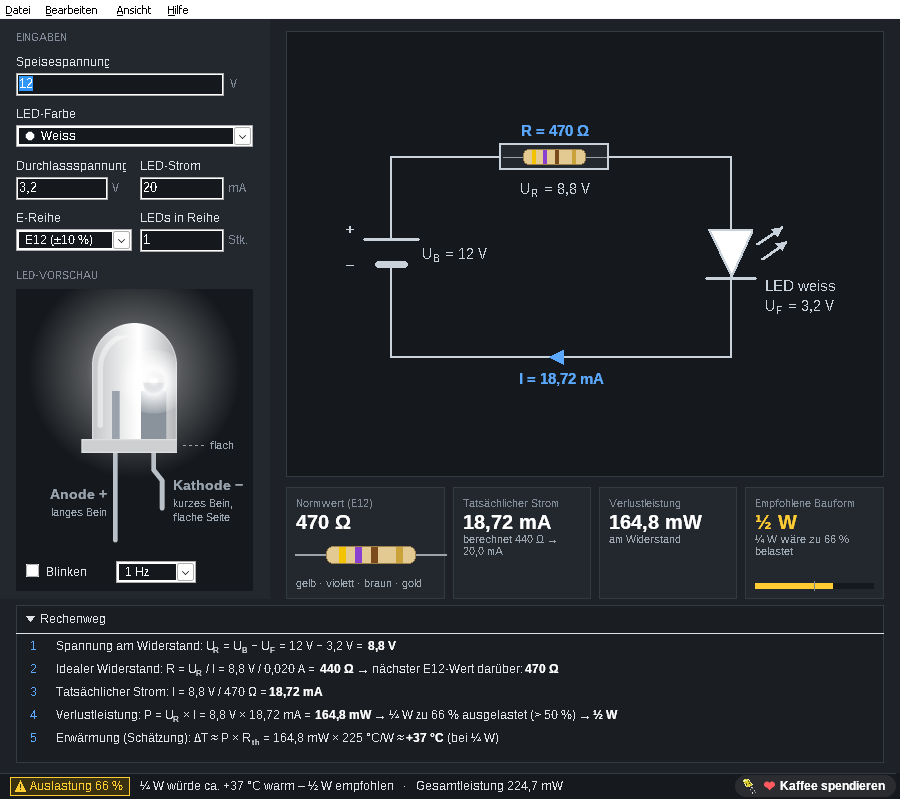
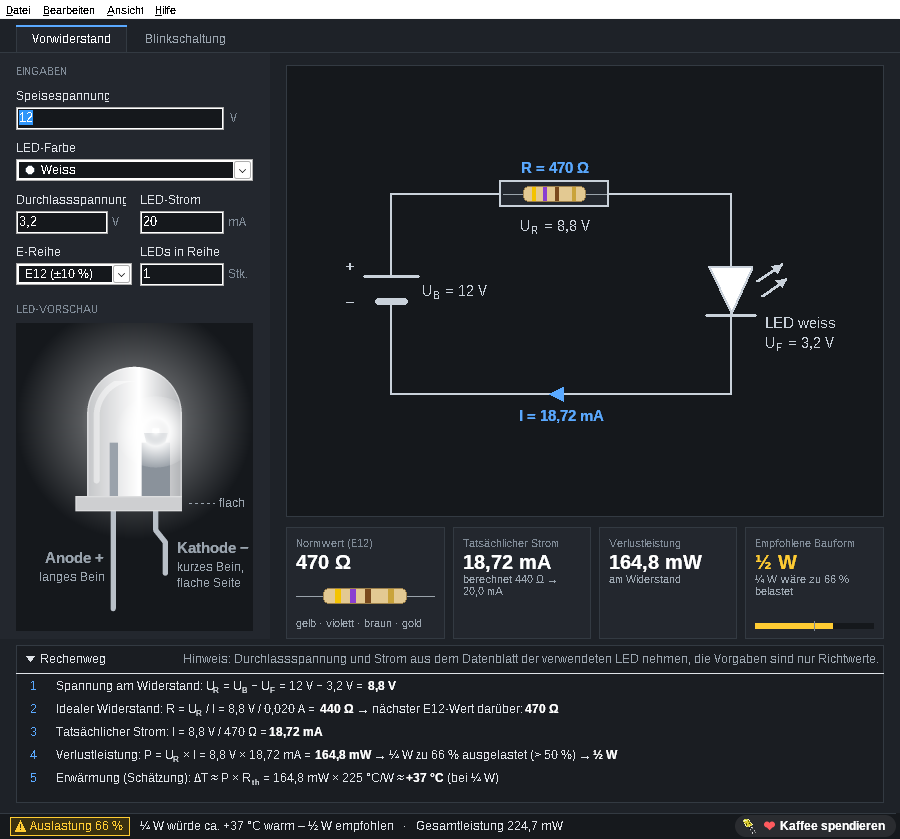
LedPreResistor 2.3: Blinkschaltungen erwähnen (#11)

diff --git a/de/index.html b/de/index.html
@@ -4,7 +4,7 @@
 <meta charset="utf-8">
 <meta name="viewport" content="width=device-width, initial-scale=1">
 <title>Elospeed – kostenlose Open-Source-Tools für Windows</title>
-<meta name="description" content="Elospeed baut kostenlose Open-Source-Tools für Windows: StemMaker macht aus MP3s Traktor-Stem-Dateien, der StemTagger bearbeitet Tags und Cover von Stem-Dateien und MP3s, der StemPacker packt fertige Spuren zu Stem-Dateien, LedPreResistor berechnet LED-Vorwiderstände.">
+<meta name="description" content="Elospeed baut kostenlose Open-Source-Tools für Windows: StemMaker macht aus MP3s Traktor-Stem-Dateien, der StemTagger bearbeitet Tags und Cover von Stem-Dateien und MP3s, der StemPacker packt fertige Spuren zu Stem-Dateien, LedPreResistor berechnet LED-Vorwiderstände und Blinkschaltungen.">
 <meta name="author" content="Elospeed">
 <meta name="robots" content="index, follow">
 <link rel="canonical" href="https://elospeed.github.io/de/">
@@ -16,7 +16,7 @@
 <meta property="og:type" content="website">
 <meta property="og:site_name" content="Elospeed">
 <meta property="og:title" content="Elospeed – kostenlose Open-Source-Tools für Windows">
-<meta property="og:description" content="Elospeed baut kostenlose Open-Source-Tools für Windows: StemMaker macht aus MP3s Traktor-Stem-Dateien, der StemTagger bearbeitet Tags und Cover von Stem-Dateien und MP3s, der StemPacker packt fertige Spuren zu Stem-Dateien, LedPreResistor berechnet LED-Vorwiderstände.">
+<meta property="og:description" content="Elospeed baut kostenlose Open-Source-Tools für Windows: StemMaker macht aus MP3s Traktor-Stem-Dateien, der StemTagger bearbeitet Tags und Cover von Stem-Dateien und MP3s, der StemPacker packt fertige Spuren zu Stem-Dateien, LedPreResistor berechnet LED-Vorwiderstände und Blinkschaltungen.">
 <meta property="og:url" content="https://elospeed.github.io/de/">
 <meta property="og:image" content="https://elospeed.github.io/img/og-image.png">
 <meta property="og:locale" content="de_DE">
@@ -91,8 +91,8 @@
     <a href="https://elospeed.github.io/LedPreResistor/de/"><img src="../img/ledpreresistor.png" alt="LedPreResistor" loading="lazy"></a>
     <div>
       <h3>LedPreResistor</h3>
-      <p>Berechnet den Vorwiderstand für eine oder mehrere LEDs: Normwert aus E12, E24 oder E96, Farbringe, Verlustleistung und empfohlene Bauform, dazu eine Schätzung, wie warm er wird. Der Rechenweg zeigt die Rechnung Schritt für Schritt mit deinen eigenen Zahlen, und eine Seite über Leuchtdioden ist eingebaut. Deutsch und Englisch, portabel, für Windows und (seit 2.2) als eigene Linux-Version.</p>
-      <div class="tags">LEDs · E12 / E24 / E96 · Windows · Linux</div>
+      <p>Berechnet den Vorwiderstand für eine oder mehrere LEDs: Normwert aus E12, E24 oder E96, Farbringe, Verlustleistung und empfohlene Bauform, dazu eine Schätzung, wie warm er wird. Der Rechenweg zeigt die Rechnung Schritt für Schritt mit deinen eigenen Zahlen, und eine Seite über Leuchtdioden ist eingebaut. Seit 2.3 rechnet es auch Blinkschaltungen mit NE555 oder Multivibrator mit zwei Transistoren, aus den Bauteilen oder aus den gewünschten Zeiten. Deutsch und Englisch, portabel, für Windows und als eigene Linux-Version.</p>
+      <div class="tags">LEDs · E12 / E24 / E96 · NE555 · Windows · Linux</div>
       <a class="btn" href="https://elospeed.github.io/LedPreResistor/de/">Zu LedPreResistor</a>
     </div>
   </div>

diff --git a/index.html b/index.html
@@ -4,7 +4,7 @@
 <meta charset="utf-8">
 <meta name="viewport" content="width=device-width, initial-scale=1">
 <title>Elospeed – free open-source tools for Windows</title>
-<meta name="description" content="Elospeed makes free, open-source tools for Windows: StemMaker turns MP3s into Traktor stem files, StemTagger edits tags and covers of stem files and MP3s, StemPacker packs finished tracks into stem files, LedPreResistor calculates LED series resistors.">
+<meta name="description" content="Elospeed makes free, open-source tools for Windows: StemMaker turns MP3s into Traktor stem files, StemTagger edits tags and covers of stem files and MP3s, StemPacker packs finished tracks into stem files, LedPreResistor calculates LED series resistors and blink circuits.">
 <meta name="author" content="Elospeed">
 <meta name="robots" content="index, follow">
 <link rel="canonical" href="https://elospeed.github.io/">
@@ -16,7 +16,7 @@
 <meta property="og:type" content="website">
 <meta property="og:site_name" content="Elospeed">
 <meta property="og:title" content="Elospeed – free open-source tools for Windows">
-<meta property="og:description" content="Elospeed makes free, open-source tools for Windows: StemMaker turns MP3s into Traktor stem files, StemTagger edits tags and covers of stem files and MP3s, StemPacker packs finished tracks into stem files, LedPreResistor calculates LED series resistors.">
+<meta property="og:description" content="Elospeed makes free, open-source tools for Windows: StemMaker turns MP3s into Traktor stem files, StemTagger edits tags and covers of stem files and MP3s, StemPacker packs finished tracks into stem files, LedPreResistor calculates LED series resistors and blink circuits.">
 <meta property="og:url" content="https://elospeed.github.io/">
 <meta property="og:image" content="https://elospeed.github.io/img/og-image.png">
 <meta property="og:locale" content="en_US">
@@ -92,8 +92,8 @@
     <a href="https://elospeed.github.io/LedPreResistor/"><img src="img/ledpreresistor.png" alt="LedPreResistor" loading="lazy"></a>
     <div>
       <h3>LedPreResistor</h3>
-      <p>Calculates the series resistor for one or more LEDs: standard value from E12, E24 or E96, colour bands, power and recommended resistor size, with an estimate of how warm it gets. A step-by-step explanation shows the calculation with your own numbers, and a page about LEDs is built in. English and German, portable, for Windows and (since 2.2) natively for Linux.</p>
-      <div class="tags">LEDs · E12 / E24 / E96 · Windows · Linux</div>
+      <p>Calculates the series resistor for one or more LEDs: standard value from E12, E24 or E96, colour bands, power and recommended resistor size, with an estimate of how warm it gets. A step-by-step explanation shows the calculation with your own numbers, and a page about LEDs is built in. Since 2.3 it also calculates blink circuits with the NE555 or a two-transistor multivibrator, from the parts or from the times you want. English and German, portable, for Windows and natively for Linux.</p>
+      <div class="tags">LEDs · E12 / E24 / E96 · NE555 · Windows · Linux</div>
       <a class="btn" href="https://elospeed.github.io/LedPreResistor/">To LedPreResistor</a>
     </div>
   </div>
